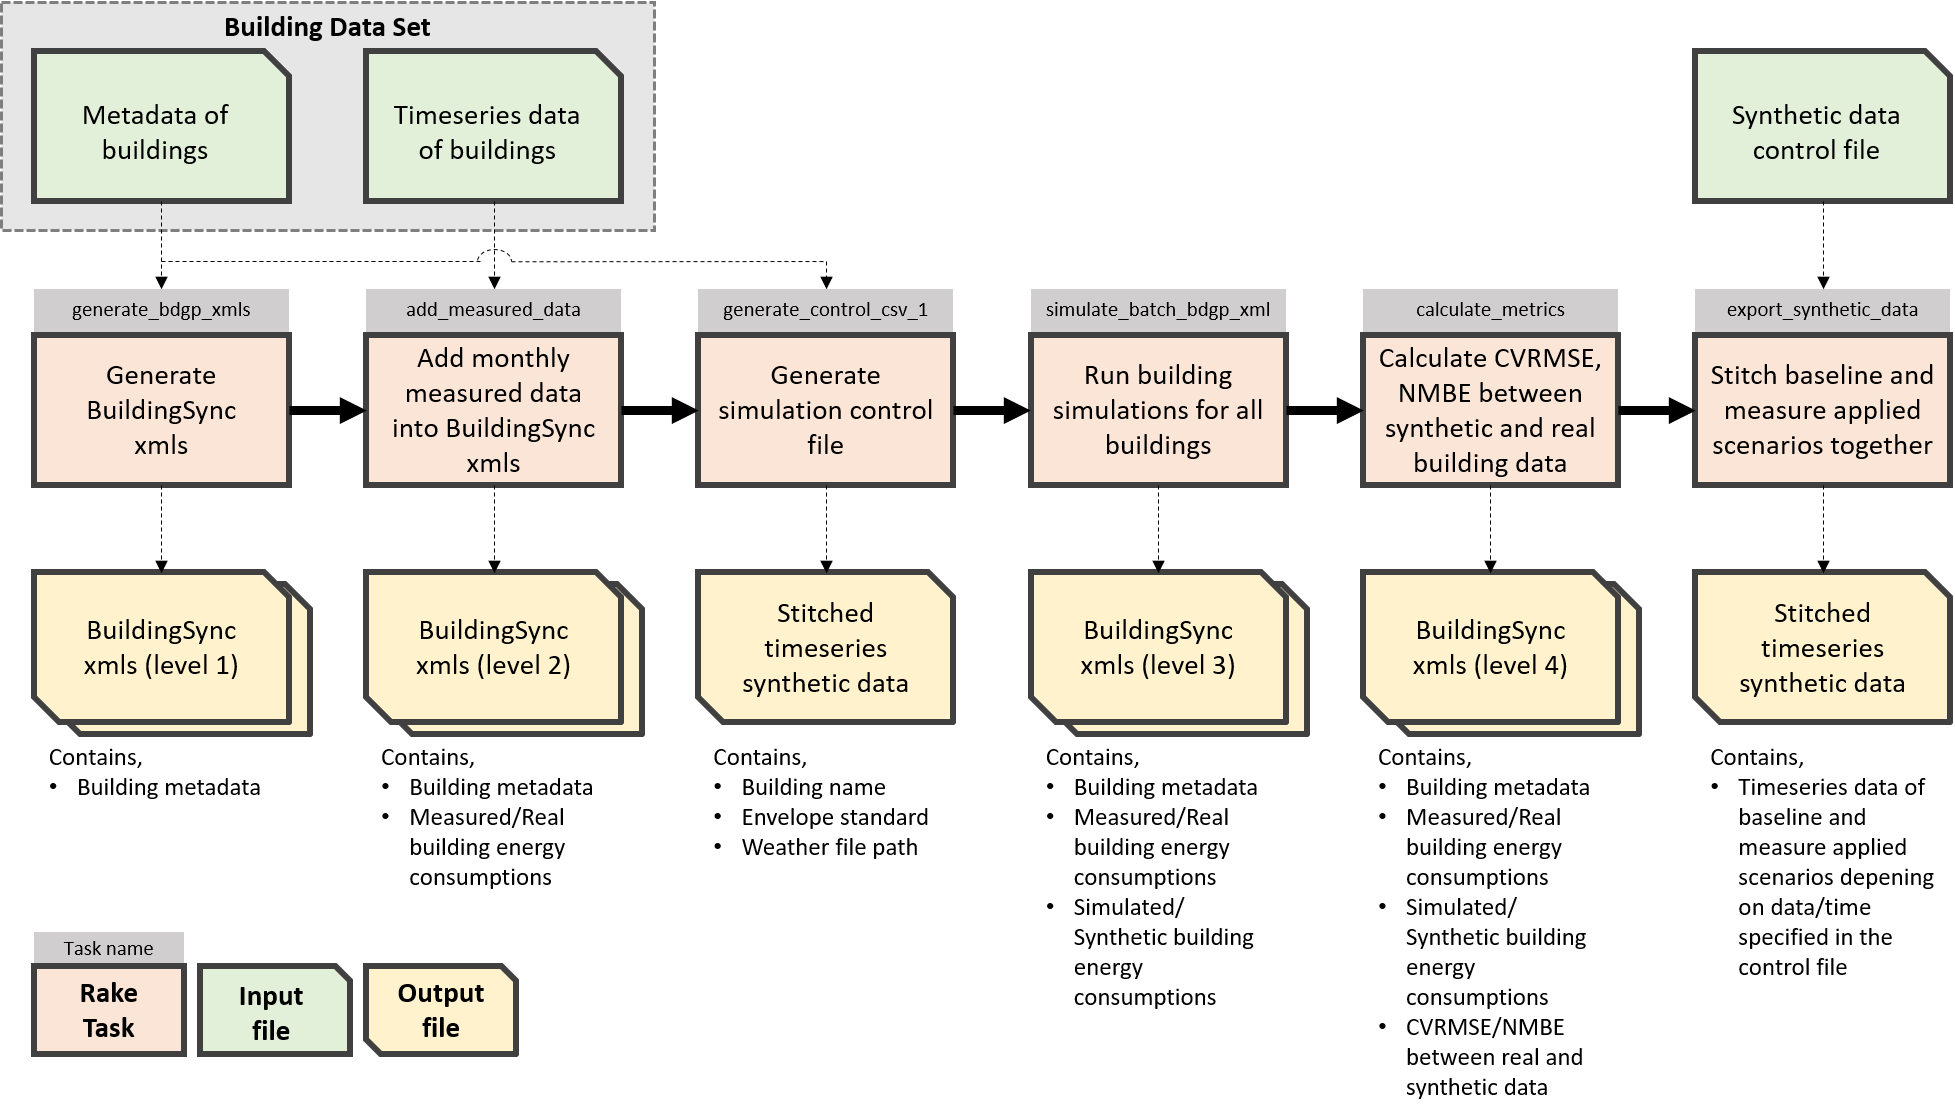
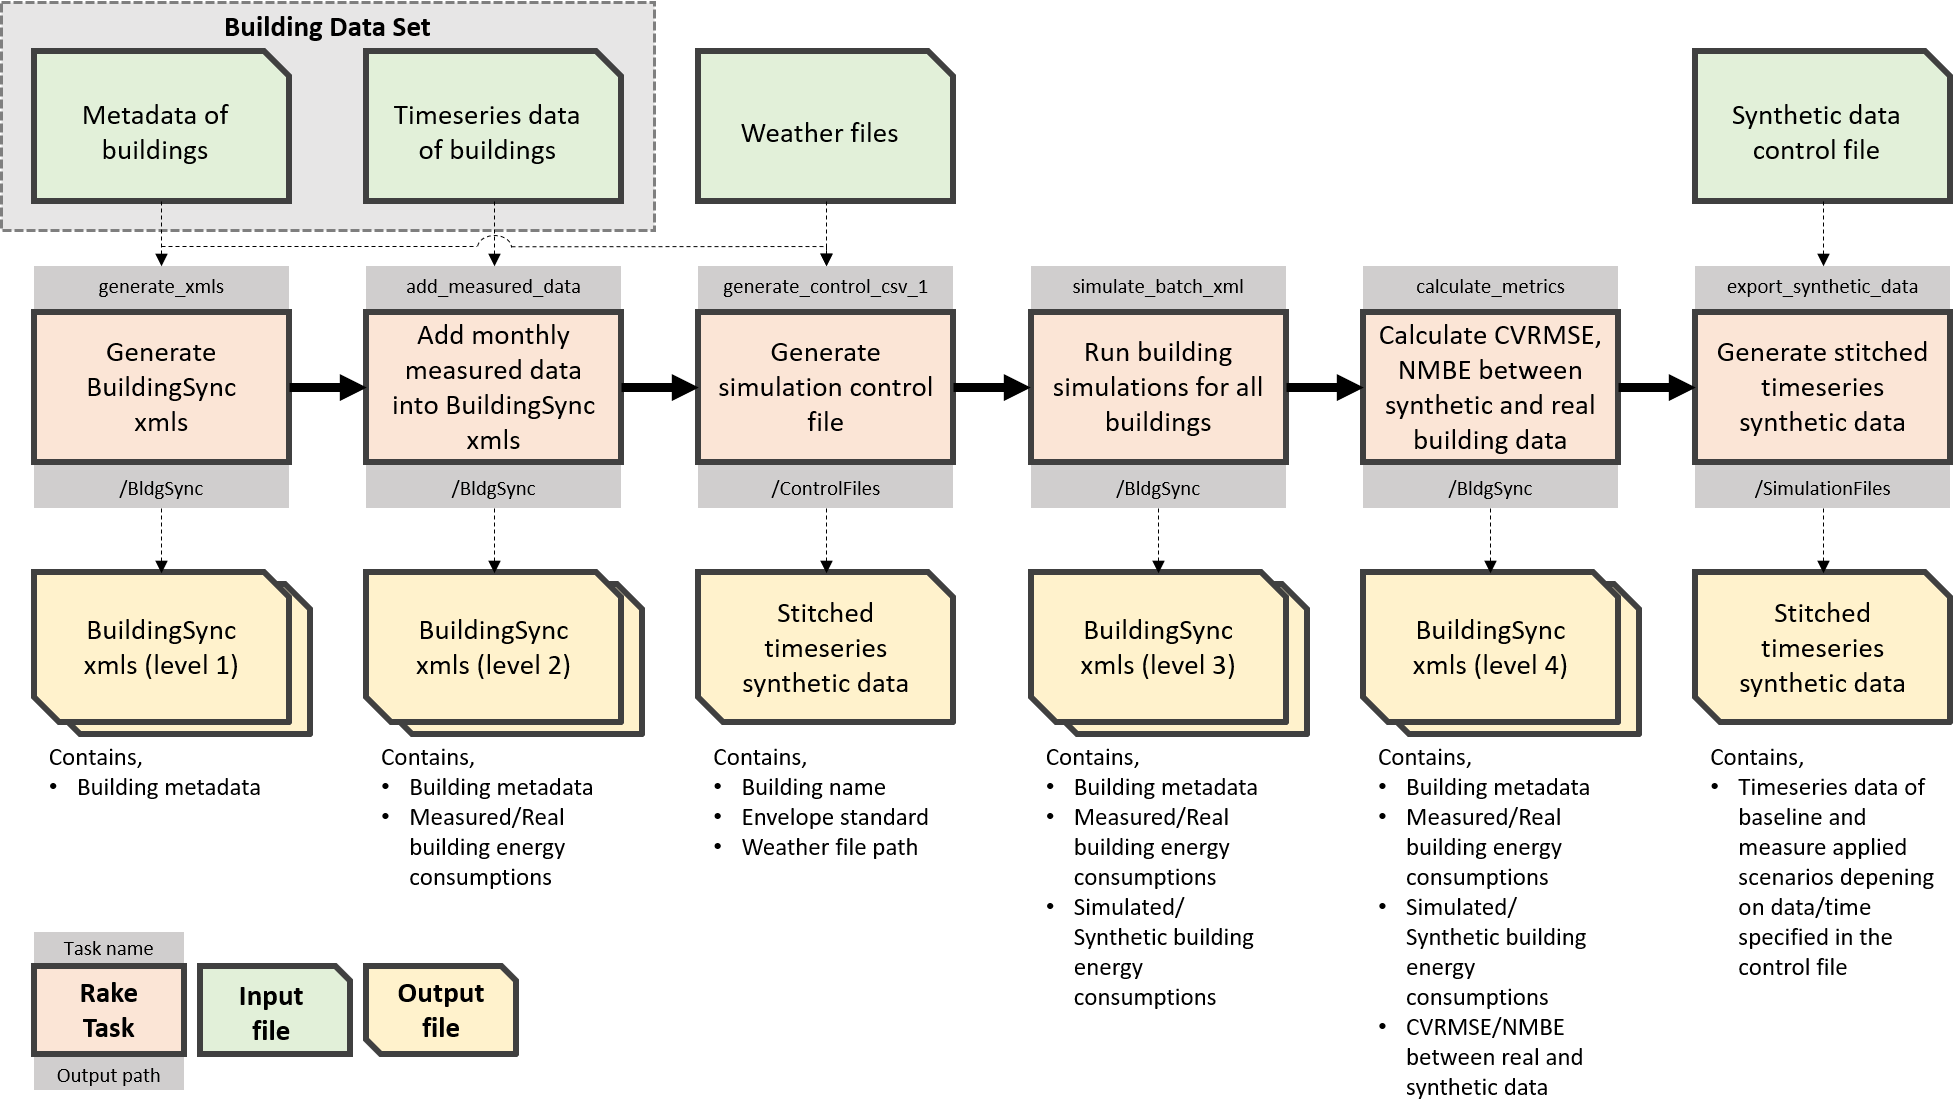
readme update

diff --git a/scripts/process_all_bldg_sync_files_in_csv.rb b/scripts/process_all_bldg_sync_files_in_csv.rb
@@ -18,7 +18,7 @@ if ARGV[0].nil?
   exit(1)
 end
 
-bldg_sync_file_dir = "../#{NAME_OF_OUTPUT_DIR}/Bldg_Sync_Files_w_Measured_Data"
+bldg_sync_file_dir = "../#{NAME_OF_OUTPUT_DIR}/BldgSync"
 if !ARGV[1].nil?
   bldg_sync_file_dir = ARGV[1]
 end
@@ -27,8 +27,8 @@ start = Time.now
 puts "Simulation script started at #{start}"
 
 def simulate_bdgp_xml_path(xml_file_path, standard, epw_file_path, ddy_file_path)
-  out_path = File.expand_path("../#{NAME_OF_OUTPUT_DIR}/Simulation_Files/#{File.basename(xml_file_path, File.extname(xml_file_path))}/", File.dirname(__FILE__))
-  out_xml = File.expand_path("../#{NAME_OF_OUTPUT_DIR}/Simulation_Files/#{File.basename(xml_file_path)}", File.dirname(__FILE__))
+  out_path = File.expand_path("../#{NAME_OF_OUTPUT_DIR}/SimulationFiles/#{File.basename(xml_file_path, File.extname(xml_file_path))}/", File.dirname(__FILE__))
+  out_xml = File.expand_path("../#{NAME_OF_OUTPUT_DIR}/SimulationFiles/#{File.basename(xml_file_path)}", File.dirname(__FILE__))
   root_dir = File.expand_path('..', File.dirname(__FILE__))
 
   begin
@@ -76,7 +76,7 @@ Parallel.each(csv_table, in_threads:BUILDINGS_PARALLEL) do |xml_file, standard, 
   log.puts("processing xml_file: #{xml_file} - standard: #{standard} - epw_file: #{epw_file}")
 
   xml_file_path = File.expand_path("#{bldg_sync_file_dir}/#{xml_file}/", File.dirname(__FILE__))
-  out_path = File.expand_path("../#{NAME_OF_OUTPUT_DIR}/Simulation_Files/#{File.basename(xml_file, File.extname(xml_file))}/", File.dirname(__FILE__))
+  out_path = File.expand_path("../#{NAME_OF_OUTPUT_DIR}/SimulationFiles/#{File.basename(xml_file, File.extname(xml_file))}/", File.dirname(__FILE__))
   epw_file_path = ''
   if File.exist?(epw_file)
     epw_file_path = epw_file

diff --git a/scripts/meta_to_buildingsync.rb b/scripts/meta_to_buildingsync.rb
@@ -8,7 +8,7 @@ require 'json'
 require_relative 'constants'
 
 if ARGV[0].nil? || !File.exist?(ARGV[0])
-  puts 'usage: bundle exec ruby bdgp_to_buildingsync.rb /path/to/csv scenario_file.json'
+  puts 'usage: bundle exec ruby meta_to_buildingsync.rb /path/to/csv scenario_file.json'
   puts '.csv files only'
   puts 'scenario_file.json is optional. If provided, it shall be a valid JSON document'
   puts 'The scenario_file.json shall be located in the NAME_OF_INPUT_DIR directory.'
@@ -26,7 +26,7 @@ if !ARGV[1].nil?
   if File.exist?(ARGV[1])
     occ_classification_file = "#{ARGV[1]}"
   else
-    puts 'usage: bundle exec ruby bdgp_to_buildingsync.rb /path/to/csv scenario_file.json'
+    puts 'usage: bundle exec ruby meta_to_buildingsync.rb /path/to/csv scenario_file.json'
     puts '.csv files only'
     puts 'scenario_file.json is optional. If provided, it shall be a valid JSON document'
     puts 'The scenario_file.json shall be located in the NAME_OF_INPUT_DIR directory.'
@@ -1035,11 +1035,11 @@ def convert_building(feature, scenario_hash = nil)
 end
 
 # output directory
-outdir = "./#{NAME_OF_OUTPUT_DIR}/Bldg_Sync_Files"
+outdir = "./#{NAME_OF_OUTPUT_DIR}/BldgSync"
 FileUtils.mkdir_p(outdir) unless File.exist?(outdir)
 
 # summary file
-summary_file = File.open(outdir + '/bdgp_summary.csv', 'w')
+summary_file = File.open(outdir + '/meta_summary.csv', 'w')
 summary_file.puts 'building_id,xml_filename,OccupancyClassification,BuildingName,FloorArea(ft2),YearBuilt,ClimateZone'
 
 options = {headers: true,

diff --git a/scripts/export_synthetic_data.rb b/scripts/export_synthetic_data.rb
@@ -73,7 +73,7 @@ for i in 1..column_headers.count-1
   puts "------------------------------------------------------"
 
   building_sync_file_path = File.dirname(csv_file_path) + "/" + base_dir
-  out_path = File.expand_path("../#{NAME_OF_OUTPUT_DIR}/Simulation_Files/#{File.basename(building_sync_file_path, File.extname(building_sync_file_path))}/", File.dirname(__FILE__))
+  out_path = File.expand_path("../#{NAME_OF_OUTPUT_DIR}/SimulationFiles/#{File.basename(building_sync_file_path, File.extname(building_sync_file_path))}/", File.dirname(__FILE__))
 
   puts "out_path: #{out_path}"
 

diff --git a/scripts/generate_csv_containing_all_bldgs.rb b/scripts/generate_csv_containing_all_bldgs.rb
@@ -34,7 +34,7 @@ if !ARGV[3].nil?  && Dir.exist?(ARGV[3])
   weather_file_source_dir = ARGV[3]
 end
 
-csv_file_path = File.expand_path("../#{NAME_OF_OUTPUT_DIR}/Control_Files/all.csv", File.dirname(__FILE__))
+csv_file_path = File.expand_path("../#{NAME_OF_OUTPUT_DIR}/ControlFiles/all.csv", File.dirname(__FILE__))
 FileUtils.mkdir_p File.dirname(csv_file_path)
 puts "csv_file_path: #{csv_file_path}"
 

diff --git a/scripts/add_measured_data.rb b/scripts/add_measured_data.rb
@@ -8,7 +8,7 @@ if ARGV[0].nil? || !File.exist?(ARGV[0]) || ARGV[1].nil? || !Dir.exist?(ARGV[1])
 end
 
 # output directory
-outdir = "./#{NAME_OF_OUTPUT_DIR}/Bldg_Sync_Files_w_Measured_Data"
+outdir = "./#{NAME_OF_OUTPUT_DIR}/BldgSync"
 FileUtils.mkdir_p(outdir) unless File.exist?(outdir)
 
 # csv_file_path = 'E:\Bricr\edv-experiment-1\spec\files\temp_open_utc.csv'

diff --git a/scripts/calculate_metrics.rb b/scripts/calculate_metrics.rb
@@ -10,7 +10,7 @@ end
 
 indir = ARGV[0]
 # output directory
-outdir = "./#{NAME_OF_OUTPUT_DIR}/Bldg_Sync_Files_w_Metrics"
+outdir = "./#{NAME_OF_OUTPUT_DIR}/BldgSync"
 FileUtils.mkdir_p(outdir) unless File.exist?(outdir)
 
 ns = 'auc'

diff --git a/README.md b/README.md
@@ -30,9 +30,9 @@ The following figure contains an overview of the scripts and input as well as ou
 
 Run the following command to generate BuildingSync XMLs from CSV data:
 
-``` bundle exec rake generate_bdgp_xmls path/to/csv/file ```
+``` bundle exec rake generate_xmls path/to/csv/file ```
 
-The generated XML files will be put in the NAME_OF_OUTPUT_DIR/Bldg_Sync_Files directory.
+The generated XML files will be put in the NAME_OF_OUTPUT_DIR/BldgSync directory.
 
 This script is designed to work with the metadata `meta_open.csv` from the [Building Data Genome Project](https://github.com/buds-lab/the-building-data-genome-project/tree/master/data/raw).
 
@@ -40,7 +40,7 @@ This script is designed to work with the metadata `meta_open.csv` from the [Buil
 
 ## Step 2: Add monthly measured data into BuildingSync xmls 
 
-Run the following command to add measured monthly electricity data to the BuildingSync XMLs generated in step 1:
+Run the following command to add measured monthly energy consumptions to the BuildingSync XMLs generated in step 1:
 
 ``` bundle exec rake add_measured_data path/to/csv/file/with/measured/data path/to/dir/for/resulting/xml/files```
 
@@ -58,13 +58,13 @@ the 3rd and forth can also use actual weather files based on the related csv fil
 
 Run the following command to translate BuildingSync XMLs to OSMs/OSWs and run all related simulations:
 
-``` bundle exec rake simulate_batch_bdgp_xml path/to/csv/file ```
+``` bundle exec rake simulate_batch_xml path/to/csv/file ```
 
 In this case the CSV file contains the name of the BuildingSync file, the Standard to use and the weather file in comma separated format.
 
-The generated simulation files will be put in the NAME_OF_OUTPUT_DIR/Simulation_Files directory.
+The generated simulation files will be put in the NAME_OF_OUTPUT_DIR/SimulationFiles directory.
 
-## Step 5: Calculate CVRMSE and NMBE between synthetic and real building data
+## Step 5: Calculate metrics based on information from both real and synthetic data
 
 Run the following command to calculate Actual EUI, Modeled EUI, CVRMSE, and NMBE from measured and simulated monthly electricity data to the BuildingSync XMLs
 
